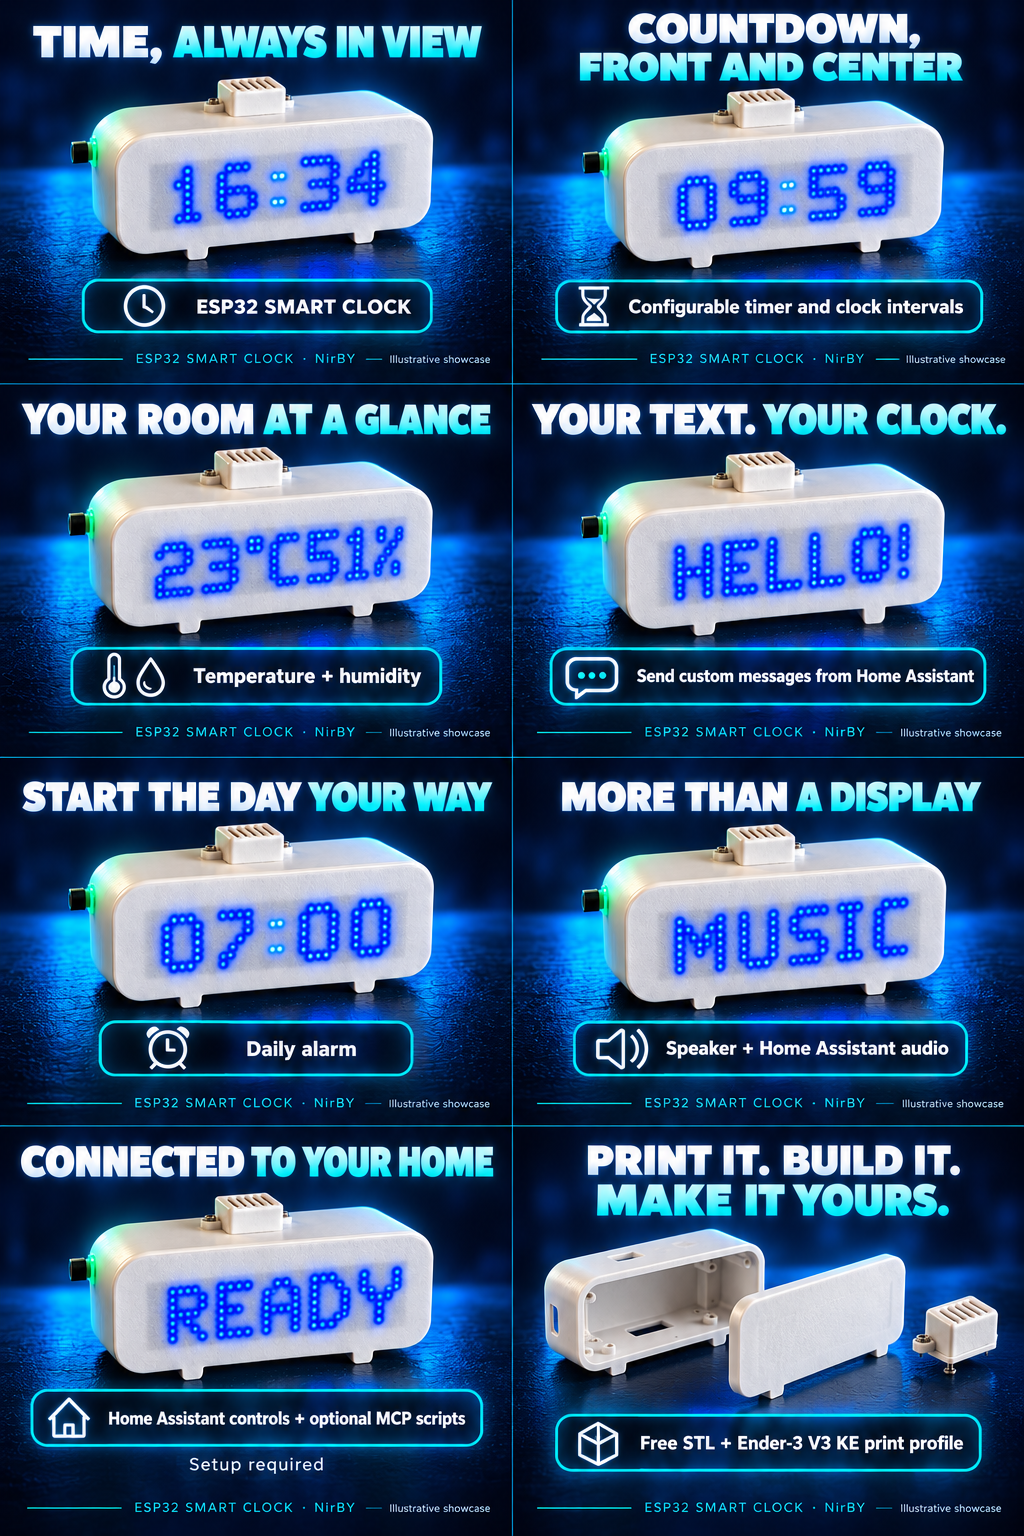
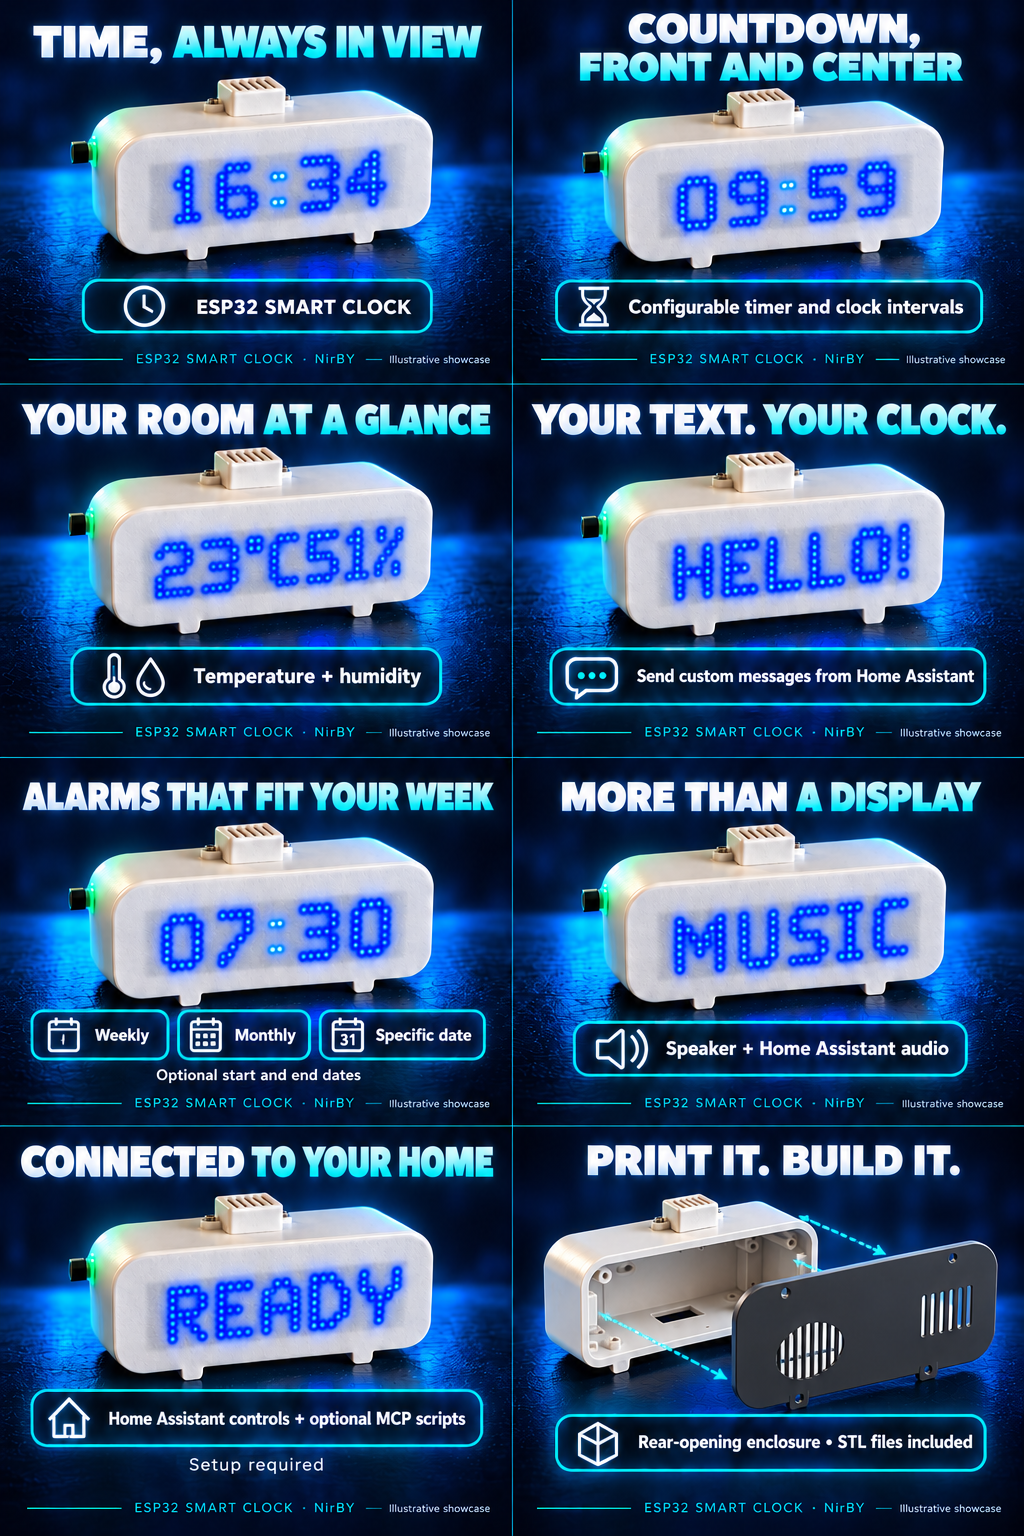
Correct rear-opening showcase and illustrate alarm schedules and actual STLs

diff --git a/README.md b/README.md
@@ -84,7 +84,37 @@ Connections use module labels and firmware GPIO numbers, not physical header pos
 
 The [current three-part enclosure](ESP32_Smart_Clock_3D_Design/README.md) includes the final [body](ESP32_Smart_Clock_3D_Design/stl/body.stl), [lid](ESP32_Smart_Clock_3D_Design/stl/lid.stl) and [sensor cage](ESP32_Smart_Clock_3D_Design/stl/sensor_cage.stl), editable source, fit samples and an [illustrated assembly guide](ESP32_Smart_Clock_3D_Design/PRINT_GUIDE.pdf). Only the latest design is retained in the working tree.
 
+**The enclosure opens from the back.** The front diffuser is part of the body;
+remove the vented rear lid to access the electronics.
+
+| Assembled enclosure | Rear lid removed |
+| --- | --- |
+| ![Actual STL geometry: assembled clock](ESP32_Smart_Clock_3D_Design/previews/cover.png) | ![Actual STL geometry: exploded rear-opening enclosure](ESP32_Smart_Clock_3D_Design/previews/exploded.png) |
+
+*CAD views rendered directly from the supplied STL meshes. Open the
+[body](ESP32_Smart_Clock_3D_Design/stl/body.stl),
+[rear lid](ESP32_Smart_Clock_3D_Design/stl/lid.stl), or
+[sensor cage](ESP32_Smart_Clock_3D_Design/stl/sensor_cage.stl) on GitHub to rotate
+the actual 3D model.*
+
 Print the body in white PLA for the tested 0.6 mm diffuser. The creator has printed and assembled the working clock in one continuous print. The enclosure files are licensed **CC BY-NC-SA 4.0** by NirBY; see the [design license scope](ESP32_Smart_Clock_3D_Design/ATTRIBUTION.md).
+
+## Alarm schedules
+
+Configure one alarm in Home Assistant: every day, selected weekdays, a day of
+each month, or a specific date. Optionally limit it to an inclusive start/end
+date range. The schedule summary shows your choices in readable text.
+
+[![Weekly, monthly and specific-date alarm examples with an optional date range](docs/images/alarm-schedules.png)](docs/wiki/Alarm.md)
+
+*Illustrated examples of the scheduling controls, not a live Home Assistant
+screenshot. Choose one schedule at a time. The
+[example dashboard](docs/home-assistant-dashboard.yaml) shows the relevant
+weekday switches, day-of-month control, or date picker for your selection.*
+
+See the [alarm setup and scheduling rules](docs/wiki/Alarm.md). The clock displays
+`ALARM` and sends an event to Home Assistant; use an HA automation for sound or
+other actions.
 
 ## Quick Start
 

diff --git a/docs/images/PROVENANCE.md b/docs/images/PROVENANCE.md
@@ -32,8 +32,30 @@ Music playback requires an appropriate Home Assistant/Music Assistant source.
 `promo-4x3.png`: eight independent English feature slides in the established
 navy/cyan style, preserving the white two-foot clock and short USB plug without
 a cable. Topics: time, countdown, temperature/humidity, custom messages, daily
-alarm, audio, Home Assistant/MCP (setup required), and printable enclosure.
+alarm schedules, audio, Home Assistant/MCP (setup required), and printable enclosure.
 Every slide is labeled illustrative. The exploded enclosure illustration is
 promotional, not a CAD reference; use the STL renders and guide for assembly.
 `tools/build_showcase.py` extracts the supplied panels and encodes an eight-frame,
 four-seconds-per-frame looping GIF; it does not generate or alter hardware details.
+
+## Rear-opening correction and alarm schedules
+
+Updated using the built-in ImageGen tool on 2026-10-24:
+
+- `showcase-storyboard.png`: edit the existing eight-panel storyboard; preserve
+  navy/cyan styling and other feature panels. Replace the front-opening
+  illustration with a rear exploded view, using
+  `ESP32_Smart_Clock_3D_Design/previews/exploded.png` as the geometry reference.
+  Keep the diffuser integral to the body and show the detached vented rear lid.
+  Update the alarm panel to Weekly, Monthly, Specific date, and optional start
+  and end dates. This remains an illustration; authoritative CAD views are
+  embedded separately in the README.
+- `alarm-schedules.png`: create a readable navy/cyan scheduling illustration
+  showing alternative settings for one alarm: Mon/Wed/Fri at 07:30, monthly
+  day 15 at 09:00, or 25 Dec 2026 at 08:00; show an optional inclusive
+  01–31 Dec 2026 date range. Label the controls illustrative and values examples.
+  Do not imply multiple simultaneous alarms or built-in audio playback.
+
+The README's assembled and exploded CAD images are OpenSCAD renders of the
+actual project STL meshes, generated by
+`ESP32_Smart_Clock_3D_Design/tools/render_previews.py`, not AI-generated geometry.

diff --git a/docs/wiki/Gallery.md b/docs/wiki/Gallery.md
@@ -11,6 +11,9 @@
 ![Enclosure CAD view](../../ESP32_Smart_Clock_3D_Design/previews/cover.png)
 ![Exploded CAD view](../../ESP32_Smart_Clock_3D_Design/previews/exploded.png)
 
+The enclosure opens at the **rear**: the vented rear lid detaches, while the
+front diffuser remains part of the body. These views use the actual STL meshes.
+
 GitHub also provides an interactive mesh preview when opening the
 [body](../../ESP32_Smart_Clock_3D_Design/stl/body.stl),
 [lid](../../ESP32_Smart_Clock_3D_Design/stl/lid.stl), or
@@ -21,6 +24,11 @@ GitHub also provides an interactive mesh preview when opening the
 ![Animated eight-feature showcase](../images/clock-showcase.gif)
 
 [View all eight slides without animation](../images/showcase-storyboard.png).
+
+![Alarm scheduling: weekly, monthly, specific date and optional date range](../images/alarm-schedules.png)
+
+The alarm graphic illustrates alternative settings for one alarm; it is not a
+live Home Assistant screenshot. See the [alarm guide](Alarm.md).
 
 These are **AI-assisted retouches** of the creator's photographs, not new CAD
 renders or exact electrical references. The original photos above and below

diff --git a/docs/wiki/Alarm.md b/docs/wiki/Alarm.md
@@ -4,6 +4,11 @@ The Alarm device in Home Assistant has one configurable alarm. Choose an hour,
 minute, and schedule, then turn **Alarm Enabled** on. Existing alarms continue
 to use **Every day** until you choose another schedule.
 
+![Weekly, monthly, specific-date and date-range scheduling examples](../images/alarm-schedules.png)
+
+*Illustrated controls with example values, not a live Home Assistant screenshot.
+These are alternative configurations of the clock's single alarm.*
+
 | Schedule | What to select | Example |
 | --- | --- | --- |
 | Every day | Hour and minute | Every day at 07:30 |
